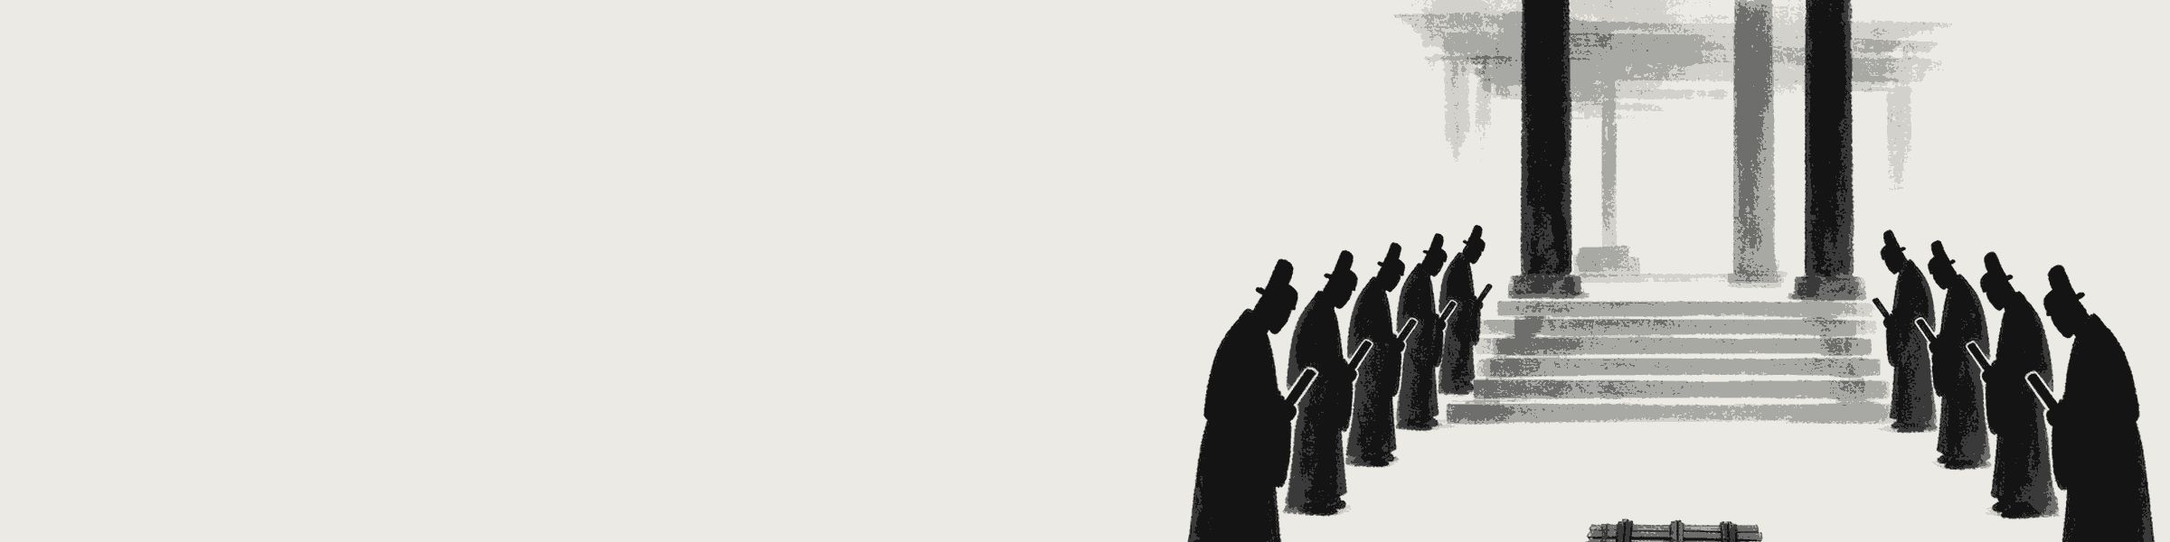
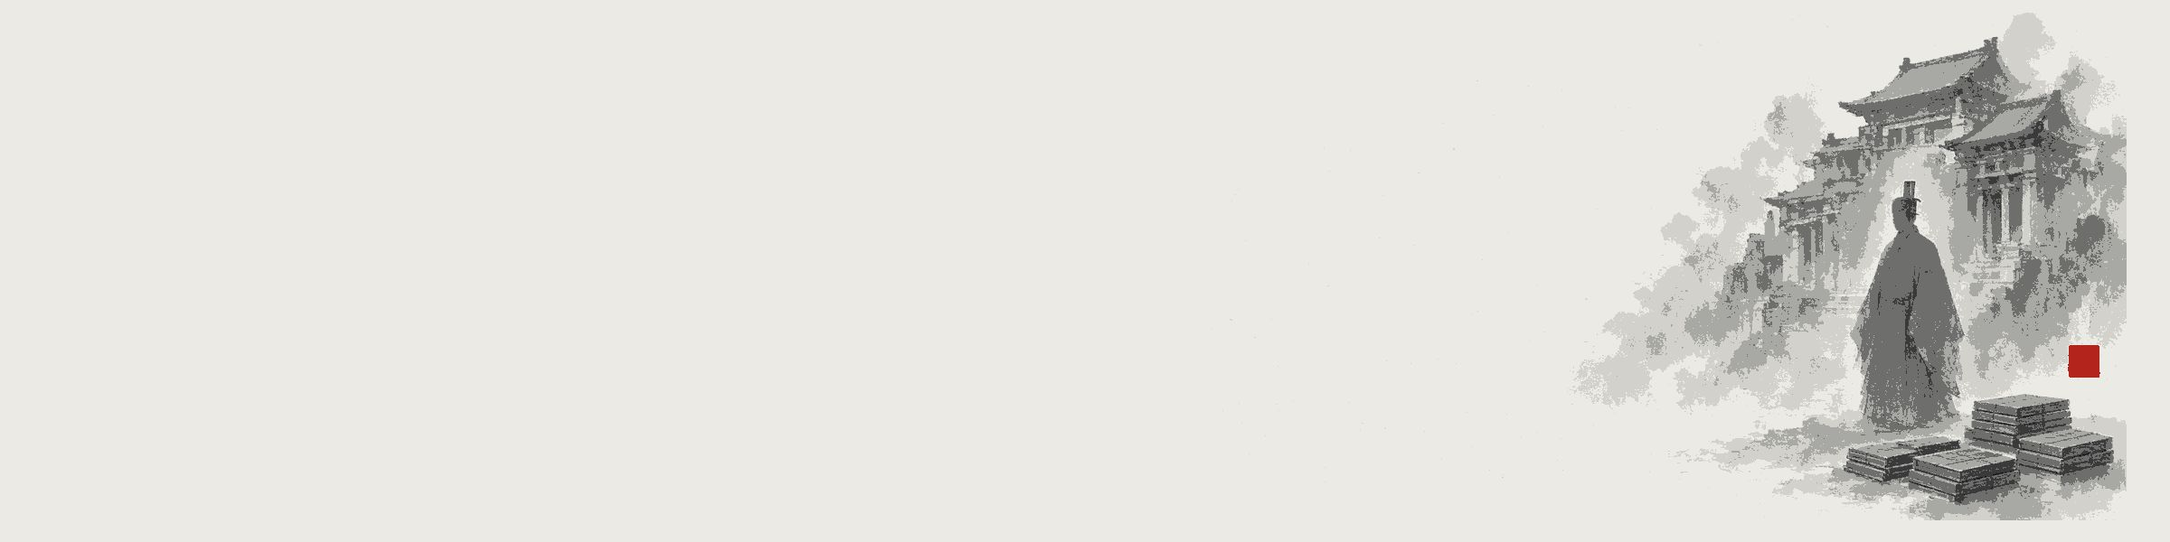
给内容站铺淡墨晕，并按简化色板重画主图和篇图。
公开访谈只作色彩归纳，不临摹画面。提示词模板写入 art-style.md 和 AGENTS.md。主图与横幅仍把焦墨放在右侧，标题留在左侧纸上。

Changed region(s): [[0.5312, 0.0, 1.0, 1.0], [0.7188, 0.96, 0.8125, 1.0]]

diff --git a/video/viewer/index.html b/video/viewer/index.html
@@ -44,11 +44,13 @@
 html{scroll-behavior:smooth;-webkit-text-size-adjust:100%}
 @media (prefers-reduced-motion:reduce){ html{scroll-behavior:auto} *,*::before,*::after{transition:none!important;animation:none!important} }
 html{background-color:var(--paper)}
-html::before{content:"";position:fixed;inset:0;z-index:0;pointer-events:none;opacity:.45;
+html::before{content:"";position:fixed;inset:0;z-index:0;pointer-events:none;opacity:.4;
   background:url("assets/paper-fiber.jpg") 0 0/512px 512px repeat;
   background-image:image-set(url("assets/paper-fiber.webp") type("image/webp"), url("assets/paper-fiber.jpg") type("image/jpeg"))}
+html::after{content:"";position:fixed;inset:0;z-index:0;pointer-events:none;
+  background:url("assets/ink-wash.webp") 0 0/512px 512px repeat}
 body{background:transparent;color:var(--ink);font-family:var(--serif);font-size:15px;line-height:1.75;min-height:100vh;position:relative}
-/* 纸纹只留一层极淡的纤维。整页墨渍与角落墨斑已停用（D1）。 */
+/* 底是宣纸纤维，上面再铺一层很疏的墨点与墨晕。透明度压低，不压正文。 */
 #bar,#hero,#pianHome,#pianBanner,#dynasties,#chapter,#scene,footer{position:relative;z-index:1}
 a{color:inherit}
 button,select{font:inherit;color:inherit}
@@ -415,7 +417,7 @@ footer .wrap{display:flex;flex-wrap:wrap;gap:8px 24px;justify-content:space-betw
       <source media="(max-width:980px)" srcset="assets/hero-fenghuo-m.webp" type="image/webp">
       <source media="(max-width:980px)" srcset="assets/hero-fenghuo-m.jpg" type="image/jpeg">
       <source srcset="assets/hero-fenghuo-wide.webp" type="image/webp">
-      <img src="assets/hero-fenghuo-wide.jpg" width="2400" height="1000" alt="水墨长城：烽火台燃起红色烽火，黑色狼烟升起，右侧悬崖上一名持矛武士的剪影" fetchpriority="high" decoding="async">
+      <img src="assets/hero-fenghuo-wide.jpg" width="2400" height="1000" alt="宣纸水墨：右侧悬崖上的烽火台有一点朱红火焰，持矛武士剪影，左侧大片留白" fetchpriority="high" decoding="async">
     </picture></div>
     <div class="hero-txt">
       <div class="kicker">中国历史 · 水墨内容站</div>

diff --git a/video/docs/art-style.md b/video/docs/art-style.md
@@ -15,7 +15,33 @@
 - **场景用细密的界画线条再铺幽暗色彩**（《影之刃3》场景美术自述）；《影之刃零》的地图则是画在宣纸上的水墨图。
 - **横版动作与动势**：前作为横版格斗，招式靠剪影姿态、刀光和拖影读出来。
 
-我们取其中最适合历史短片与横版引擎的部分：**黑、白、红的高反差，剪影人物，泼墨与血雾的打击感，侧视的武侠戏剧感**。系列里的金色高光、蒸汽朋克机械、细密界画线条与复杂材质，**一律不用**。
+我们取其中最适合历史短片与横版引擎的部分：**黑、白、红的高反差，剪影人物，泼墨与血雾的打击感，侧视的武侠戏剧感**。系列里的金色高光、蒸汽朋克机械、细密界画线条与复杂材质，**一律不用**。复杂实景改成墨晕，不画照片式的城、山、天。
+
+### 1.1 色彩归纳（2026-10-12，只据公开文字，不临摹画面）
+
+公开访谈和评测**没有给出官方色值或色板文件**。下面的占比和 Hex 是我们锁死的简化，不是从他们的宣传图吸色。吸色或临摹画面都不做。
+
+| 范围 | 资料里实际说了什么 | 水墨简化版 |
+|---|---|---|
+| 人物轮廓 | 美术总监 Michael CTY（《影之刃3》，游民星空 2020-12-25）：少画繁复细节，写意轮廓，用大黑大白的比例出厚度，以「力」和「型」做骨架。服装按功能分层，不按装饰堆。 | 人物主体约七成是焦墨 `#141414`。内部只用浓墨 `#3a3a3a` 分一两块，不超过人物面积一成五。纸白是底，不是皮肤高光。 |
+| 服饰、发丝 | 梁其伟（腾讯新闻 2023-06-26）：武侠要朴、要带一点尘土，破蓑衣、斗笠压住脸，不要高饱和的新绸缎。发丝和面容在原作里要质感；我们这里不画。 | 只留冠、髻、袖、甲的外轮廓。不画发丝，不画五官。袖摆可以有枯笔飞白。 |
+| 兵刃 | 同一访谈里的意象是雨中一把剑、寒光一闪。评测把刀光写成黑灰底上最跳的一笔。 | 刃口一笔纸白或淡灰，刀身仍是焦墨。不画金色刃，不画日本刀。 |
+| 红色点缀 | 梁其伟谈《影之刃零》（游戏陀螺）：从 2D 抽出的要素是低饱和、冷色大背景，对比红和金色高光。2014 年评测（360 游戏、益玩）：全场景黑与灰，技能和喷出的血最刺激。GameRant 引他的话：树上挂的红布是传统色，机械臂和炮是另一套。 | 只留朱砂 `#b3241c`。用在血、旗、落日、空白印。单帧不超过一成，一帧一处。金色高光不收。 |
+| 天空、远景 | 2014 评测：黑与灰，阴暗。游民星空 2021-01：场景用《千里江山图》《清明上河图》式的界画密线再铺幽暗色，繁复里有疏离。 | 不画界画，不画实景天空。最远是清墨 `#d2d1cc` 的晕，然后淡墨 `#a8a8a4` 的山，中景重墨 `#6e6e6c` 的建筑块。层与层之间留纸。 |
+| 雾、月、日 | 《影之刃零》的玩家向描述里出现过瘴气、浑浊天光、灰雾挡月、火把（当游网）。那些偏黄、偏紫的光不收。 | 雾是清墨晕开的毛边。月是纸白的圆，没有光晕。日只在地平线上一小块朱砂，不画橙黄圆日。 |
+| 刀光、血、动作线、冲击 | 2014 评测：线与墨构成画面，血在黑灰里跳出来。《影之刃零》试玩描述有拖尾、暗红碎粒、火星、血像泼到墙上、烟像淡墨（当游网）。屏幕闪白和金属火星不收。 | 刀光是沿挥砍方向的枯笔飞白，纸白或焦灰，不是霓虹。血是斜向的朱砂点，面积见上。动作线最多两笔侧锋。冲击是一圈淡墨，不要光斑、不要粒子。 |
+
+资料（均为文字，未把宣传图放进仓库）：
+
+- 游戏陀螺 / 陀螺科技对梁其伟的访谈：低饱和、冷色大背景、红与金色高光、KUNGFUPUNK。[youxituoluo.com/530799.html](http://www.youxituoluo.com/530799.html)
+- 腾讯新闻 2023-06-26 专访：武侠要朴、要带尘土，不要高饱和戏装。[news.qq.com/rain/a/20230626A09UJA00](https://news.qq.com/rain/a/20230626A09UJA00)
+- 游民星空 2020-12-25，Michael CTY：写意轮廓、大黑大白、力与型。[shouyou.gamersky.com/news/202012/1349494.shtml](https://shouyou.gamersky.com/news/202012/1349494.shtml)
+- 游民星空 2021-01：阴郁粗粝；环境用界画密线（这一条我们改成墨晕，不照做）。[shouyou.gamersky.com/news/202101/1357660.shtml](https://shouyou.gamersky.com/news/202101/1357660.shtml)
+- 360 游戏、益玩，2014 年《影之刃》评测：黑灰浓墨，技能和血最跳。
+- PlayStation Blog（2023-05-24）与 GameRant：暗、冷、荒；红布是传统色，机械与炮是功夫朋克，不进入本项目。
+- A9VG 对《影之刃零》的试玩：地图是水墨的，钢铁高塔是另一套，不进入本项目。
+
+明暗关系收成一句：纸最亮，人最黑，中间只留三四层灰；红比最黑的人更「跳」，但面积小。对比靠黑白块，不靠彩色渐变。笔触是侧锋、见棱角、飞白只跟动势走。
 
 ## 2. 我们的简化版
 
@@ -111,6 +137,72 @@
 - `videoPrompt.style`、`videoPrompt.negative`、人物描述末尾的剪影规则、高潮镜的墨效，全部来自 `art-style.mjs`。
 - `artPrompts[].prompt` 的“画风”一行与负面词同源；素材仍是透明底，以便引擎分层合成。
 - 开场分镜的“水墨效果”词表（火、营帐、军阵、殿柱等）已改为剪影说法。
+
+## 5. 可直接复用的提示词模板（2026-10-12）
+
+生成任何静帧，先写「共用正向」，再接本类的一句，最后接「共用负向」。不要改色板、留白比例和红色上限。不要写《影之刃》的角色名，不要把他们的图当参考图。
+
+**共用正向（中文）**
+
+高反差黑白红武侠水墨剪影，简化版，画在暖宣纸 `#eceae4` 上。复杂的城、山、天都改成墨晕，不画实景、不画照片。墨分五层：焦 `#141414`、浓 `#3a3a3a`、重 `#6e6e6c`、淡 `#a8a8a4`、清 `#d2d1cc`。人物是侧视大剪影，头身约 1:7，无五官。外轮廓粗笔侧锋、转折见棱角；飞白只沿动势。光是平的，没有体积光、没有光斑。地平线在下三分之一。
+
+**共用负向（中文）**
+
+不要文字、字母、印章里的字、水印。不要金色、蓝色、青色、绿色、黄色、橙色、紫色。不要写实照片、3D、动漫脸、五官、日本刀、现代建筑、电线、公路、车辆、玻璃、塑料、现代衣服、眼镜、手表、枪、电灯。不要蒸汽机械、界画密线、细密皴纹、霓虹刀光、粒子、镜头光斑。朱砂 `#b3241c` 不超过画面一成，一帧只用一处。
+
+**Shared positive (English)**
+
+High-contrast black-white-red wuxia ink silhouette, simplified, on warm xuan paper #eceae4. Replace any complex city, mountain or sky with ink wash; do not paint a real place or a photograph. Five ink weights only: scorched #141414, dense #3a3a3a, heavy #6e6e6c, pale #a8a8a4, clear #d2d1cc. Side-view silhouette, about seven heads tall, no facial features. Bold angular side-brush contour; dry-brush flying white only along motion. Flat light, no god rays, no lens flare. Horizon in the lower third.
+
+**Shared negative (English)**
+
+No text, letters, characters inside seals, or watermark. No gold, blue, cyan, green, yellow, orange, or purple. No photograph, 3D, anime face, facial features, katana, modern buildings, power lines, roads, vehicles, glass, plastic, modern clothing, eyeglasses, watches, guns, or electric lights. No steampunk machinery, dense ruled lines, dense texture strokes, neon blade light, particles, or lens flare. Vermilion #b3241c stays under 10% of the frame and in one place only.
+
+### 5.1 人物
+
+每类都是共用正向 + 下面这一句 + 共用负向。人物四周留白不少于画面三成。焦墨占人物约七成，浓墨分块不超过人物一成五。
+
+| 类 | 正向要补的一句 | 红用在哪 | English clause |
+|---|---|---|---|
+| 武将 | 一名无五官的武将剪影，肩宽，简单盔或高冠，甲只留大块轮廓，长兵器竖持或斜持，不与任何人相接。侧视，人高占画面五成，脚下是重墨地面一笔。 | 旗或盔缨一小块，不超过 6% | One faceless general, broad shoulders, simple helmet or tall crown, armour as large plates only, a long weapon held clear of any other body. Side view, figure about half the frame height, one heavy-ink ground stroke. |
+| 刺客 | 一名偏瘦的无五官剪影，斗笠或包头压住头部，窄袖，一把直剑收在身侧，姿态前倾。人高占画面四到五成，周围清墨雾。 | 不用红；若必须，只在刃口下一滴，不超过 3% | One lean faceless assassin, wide hat or wrapped head, narrow sleeves, a straight sword held at the side, weight forward. Figure 40–50% of frame height, clear-ink mist around. |
+| 文士 | 一名瘦高的无五官文士，宽袖，双手藏在袖里，不持兵器，不披甲，布冠或方巾。人高占画面五成，左侧留出至少四成纸白。 | 不用红 | One tall lean faceless scholar, wide sleeves, hands hidden, no weapon, no armour, cloth cap. Figure about half the frame height, at least 40% empty paper on the left. |
+| 女性 | 一名无五官的女性剪影，身形清瘦，长裙或深衣的外轮廓，发髻只是头上的一块形，不持兵器。姿态稳，不画腰肢细节。 | 裙裾或一枝小印，不超过 4%，印面无字 | One faceless woman, slim, the outer shape of a long robe, hair only as a knot mass, no weapon. Calm pose, no body detail. |
+| 帝王 | 一名无五官的君王剪影，简单高冠或冕旒，宽袖端坐或侧立，不持兵器，不戴西式尖冠。身后是两根重墨柱的平涂块，不是宫殿照片。 | 冠前或座侧一块空白朱印，无字，不超过 6% | One faceless ruler, simple tall crown or a crown with bead tassels, wide sleeves, seated or standing, no weapon, no western spiked crown. Two flat heavy-ink columns behind, not a photographed palace. |
+
+### 5.2 场景
+
+没有特写人物。留白不少于四成。远、中、近三层必须都能分开。
+
+| 类 | 正向要补的一句 | 红用在哪 | English clause |
+|---|---|---|---|
+| 山水 | 三四层平涂的山，最近重墨，最远清墨晕开，中间一条淡墨的水。不画树叶、不画皴纹。地平线在下三分之一，上半几乎是纸。 | 不用红，或地平线上一小点，不超过 2% | Three or four flat mountain layers, heavy ink near, clear ink far, one pale stroke of water. No leaves, no texture strokes. Horizon in the lower third, the upper half almost bare paper. |
+| 城池 | 城是几块重墨的墙和一门洞，屋顶是一条斜线，不要砖缝和窗格。城前留纸。 | 一面素旗，不超过 5%，旗上无徽记无字 | A city as a few heavy-ink wall blocks and one gate opening, roofs as single slanted strokes, no bricks, no window lattice. Empty paper in front. |
+| 宫殿 | 柱、阶、屋檐都是平涂的重墨块，地面一条纸白。不要藻井和金饰。 | 空白朱印或帘边一条，不超过 6%，无字 | Columns, steps and eaves as flat heavy-ink blocks, one paper-white floor stroke. No ceiling pattern, no gold ornament. |
+| 战场 | 成排的无五官剪影由焦到淡退远，矛竖着，不相接。地面一条重墨。烟是横向的清墨。 | 一面朱旗或落日一小块，不超过 8% | Ranks of faceless silhouettes receding from scorched to pale ink, spears upright, not touching. One heavy ground stroke. Smoke as a horizontal clear-ink band. |
+| 夜景 | 纸仍然是 `#eceae4`，夜不涂成蓝黑。月亮是纸白的圆，没有光晕。建筑只剩更黑的一块剪影。 | 一盏青铜灯的火，或月旁不用红；火不超过 3% | The paper stays #eceae4; night is not painted blue-black. The moon is a paper-white disc with no glow. Buildings are one darker silhouette. |
+
+### 5.3 战斗
+
+不画兵器相接的瞬间，只画之前或之后。人仍无五官。飞白方向必须和动作一致。
+
+| 类 | 正向要补的一句 | 红用在哪 | English clause |
+|---|---|---|---|
+| 单挑 | 两人剪影拉开距离，一人前倾、一人稳立，刀或剑已离开对方身体。中间是纸，上面一条飞白。 | 地上数点朱砂，不超过 8%，不画血河 | Two silhouettes apart, one leaning in, one planted, blades clear of the other body. Paper between them and one flying-white stroke. |
+| 军阵 | 只见阵，不见格斗。前排焦墨，后排淡成雾。旗在阵侧。 | 一阵旗，不超过 8% | The formation only, no melee. Front rank scorched ink, rear rank fading into mist. Banners at the side. |
+| 攻城 | 城墙是重墨块，城下人很小，云梯是两条线。不画人翻过垛口。 | 城头一小块朱砂如火或旗，不超过 6% | The wall is a heavy-ink block, people small beneath it, a ladder as two lines. Nobody climbing over the parapet. |
+| 刺杀 | 一人已倒或将倒的剪影，另一人站在三步之外，剑尖不接触身体。地上墨滩。 | 斜向的朱砂血雾，不超过 8%，然后像要定格 | One figure already falling, the other three steps away, the sword tip not touching the body. A pool of ink on the ground. |
+
+### 5.4 页面图（主图、横幅、卡片）
+
+站点图还要遵守留白，否则标题会压住主体。左侧纸上可以有极淡的清墨，不能有焦墨。
+
+| 类 | 正向要补的一句 | 红用在哪 | English clause |
+|---|---|---|---|
+| 主图（宽 2.4:1） | 左侧至少一半是几乎空白的宣纸，焦墨全部放在右侧四成以内：悬崖、烽火台、一名持矛的无五官武士。 | 烽火一点，不超过 6% | At least the left half is nearly empty paper. All scorched ink stays inside the right 40%: a cliff, a beacon, one faceless spear warrior. |
+| 主图（方） | 同样的烽火与武士，焦墨从横向约四成之后才出现，人不要被切出画外。 | 烽火一点，不超过 6% | The same beacon and warrior. Scorched ink begins only after about 40% of the width. Do not crop the figure. |
+| 横幅（4:1） | 左侧至少一半空白。右侧按篇放一件事：战场是阵与旗，治国是柱、竹简和无五官文臣，人物是一名无兵器剪影，地理是河、三层山和一条路。 | 战场用旗或小日不超过 8%；治国用无字朱印不超过 6%；人物不超过 3%；地理一个点不超过 3% | At least the left half is empty. The right holds one subject only: ranks and banners, or columns plus slips plus a faceless minister, or one unarmed silhouette, or a river, three mountain layers and a route. |
+| 卡片（4:5） | 竖幅。主体完整，头顶和脚下都留纸。战场、治国、人物、地理各只讲上面横幅里的那一件事。 | 与对应横幅相同 | Vertical. The subject is complete, with paper above the head and below the feet. One subject only, matching that banner. |
 
 ---
 

diff --git a/AGENTS.md b/AGENTS.md
@@ -86,6 +86,45 @@ node video/tools/validate.mjs   # 历史内容校验器，必须 0 个错误
 - 效果：只有命中或高潮才泼墨与朱红血雾，之后定格。
 - 负面词：其他颜色、金色、精细纹理、CG 渐变、写实照片、3D、动漫脸、画面文字、**日本刀（武士刀）**、**细密皴纹**（后两项已写进 `NEG_STYLE_*`）。
 
+### 5.1 强制：水墨简化版提示词
+
+生成静帧、主图、横幅、卡片图、`videoPrompt` 与素材提示词时，必须套 [art-style.md §5](./video/docs/art-style.md) 的模板：共用正向 + 本类一句 + 共用负向。不要改色板、留白比例和红色上限。不要写角色名，不要把参照作品的图放进仓库或当作参考图。复杂城、山、天改成墨晕，不画实景。
+
+墨分五层：焦 `#141414`、浓 `#3a3a3a`、重 `#6e6e6c`、淡 `#a8a8a4`、清 `#d2d1cc`，纸 `#eceae4`。朱砂 `#b3241c` 单帧不超过一成、一帧一处，只给血、旗、日、空白印。人物无五官，头身约 1:7。侧锋见棱角，飞白只跟动势。光是平的。
+
+**共用正向：** 高反差黑白红武侠水墨剪影，简化版，暖宣纸底。复杂景物改成墨晕。人物侧视大剪影，无五官。地平线在下三分之一。
+
+**共用负向：** 不要文字、印章里的字、金色、蓝青黄绿橙紫、写实、3D、动漫脸、五官、日本刀、现代建筑与器物、蒸汽机械、界画密线、细密皴纹、霓虹刀光、粒子和光斑。
+
+**Shared positive:** High-contrast black-white-red wuxia ink silhouette, simplified, on warm xuan paper #eceae4. Replace complex scenery with ink wash. Side-view faceless silhouette. Horizon in the lower third.
+
+**Shared negative:** No text, letters in seals, gold, blue, cyan, green, yellow, orange, purple, photograph, 3D, anime face, facial features, katana, modern objects, steampunk, dense ruled lines, dense texture strokes, neon blade light, particles, or lens flare. Vermilion under 10%, one place.
+
+本类只追加一句（红的位置和上限写在句中）：
+
+| 类 | 追加这一句 |
+|---|---|
+| 武将 | 肩宽，简单盔，甲只留大块，长兵器不与人相接。人高约五成。红只在旗或盔缨，不超过 6%。 |
+| 刺客 | 偏瘦，斗笠压头，直剑收在身侧。人高四到五成，周围清墨。红不超过 3%，可以不用。 |
+| 文士 | 瘦高宽袖，手藏袖中，不持兵器。左侧至少四成纸白。不用红。 |
+| 女性 | 清瘦长裙，发髻只是一块形，不持兵器。红在裙裾或无字小印，不超过 4%。 |
+| 帝王 | 简单高冠或冕旒，不持兵器，不戴西式尖冠。身后两根平涂柱。无字朱印不超过 6%。 |
+| 山水 | 三四层平涂山，一条淡墨水，不画皴纹。上半几乎是纸。红不超过 2% 或不用。 |
+| 城池 | 几块墙、一个门洞、屋顶一条斜线，无砖缝。素旗不超过 5%，旗上无字无徽记。 |
+| 宫殿 | 柱、阶、檐是平涂块。无字朱印或帘边不超过 6%。 |
+| 战场 | 成排剪影由焦到淡，矛竖着不相接。朱旗或落日不超过 8%。 |
+| 夜景 | 纸仍是 `#eceae4`，不涂蓝黑。月是纸白圆，无光晕。灯火不超过 3%。 |
+| 单挑 | 两人拉开，兵器离开对方身体，中间是纸和一条飞白。地上朱砂点不超过 8%。 |
+| 军阵 | 只见阵，不见格斗。前排焦、后排淡。旗不超过 8%。 |
+| 攻城 | 城是重墨块，人很小，云梯两条线，无人翻过垛口。城头红不超过 6%。 |
+| 刺杀 | 一人将倒，另一人在三步外，剑尖不接触身体。斜向血雾不超过 8%。 |
+| 主图宽 | 左半几乎空白。焦墨只在右侧四成：悬崖、烽火、持矛无五官武士。烽火红不超过 6%。 |
+| 主图方 | 同一题材。焦墨从横向约四成之后才出现，人不要被切出画外。 |
+| 横幅 | 左半空白。右侧只一件事：阵与旗，或柱、竹简与文臣，或一名无兵器的人，或河、三层山和一条路。红的上限依次不超过 8%、6%、3%、3%。 |
+| 卡片 | 竖幅，头顶脚下都留纸。题材与同篇横幅相同，红的上限也相同。 |
+
+English clause for the same row, in order: faceless general with weapon clear of any body; lean assassin, sword at the side; scholar, no weapon, empty paper on the left; woman, no weapon; ruler with a simple crown and two flat columns; flat mountain layers and one water stroke; wall blocks and one gate; flat palace blocks; ranks with upright spears; night kept on paper white, moon with no glow; two fighters apart; formation only; wall, small people, ladder of two lines; assassination with the sword not touching; wide hero with the left half empty; square hero, ink after 40% of the width; banner with the left half empty and one subject; vertical card, subject complete.
+
 ## 6. AI 视频怎么做（2026-10-10 实测）
 
 - 流程：每个镜头先出一张本风格静帧作**首帧**，再**图生视频**。
@@ -149,7 +188,7 @@ node video/tools/validate.mjs   # 历史内容校验器，必须 0 个错误
 4. `node video/tools/validate.mjs` 0 个错误，`./build.sh check` 全绿，才能提交或推送。
 5. 视觉改动只交截图，必要时附改前改后对比。不要录屏。未在真实 GPU 上看过的结论写“未实测”。真实 GPU 验收在用户的 Mac 上。内容站版式以无头截图为准，字形在 Mac 上会不同（box 上没有楷体）。
 6. 新 PR 一律以 `main` 为合并目标，不要把一个 PR 的分支再当成下一个 PR 的基线。小批量提交；提交作者用 `linkxzhou`。
-7. 页面与图片遵循 §5 的简化版《影之刃》黑白红：宣纸 `#eceae4`、浓墨 `#141414`、灰阶、朱砂 `#b3241c` 不超过一成。内容站不用圆角卡片、投影、渐变和玻璃模糊；标题用楷体感字体、墨线分隔和朱印。
+7. 页面与图片遵循 §5 的简化版《影之刃》黑白红：宣纸 `#eceae4`、浓墨 `#141414`、灰阶、朱砂 `#b3241c` 不超过一成。提示词必须套 §5.1 的共用正负向和本类一句。内容站不用圆角卡片、投影、玻璃模糊；标题用楷体感字体、墨线分隔和朱印。页面底可以有很淡的纸纹和墨晕。
 8. 章节视频按 §7：旁白 rate −29%（约慢 1.3 倍）、禁止现代元素和时代错置、镜头之间默认流墨转场。分镜静帧、镜头、转场和音频分轨留在本地 `/workspace/chapter-video/`，不提交；仓库只收成片 mp4、海报和剧本。
 9. 多步任务按 plan-with-files 把进度记在 `plan/progress/<日期>-<任务>/` 的 `task_plan.md`、`findings.md`、`progress.md`。
 10. 地图的海岸和大河用 Natural Earth（公有领域）。CHGIS / TGAZ 只用于人工在线核对，不下载、不抄坐标、不提交。

diff --git a/plan/progress/2026-10-12-viewer-ink-style/progress.md b/plan/progress/2026-10-12-viewer-ink-style/progress.md
@@ -66,6 +66,13 @@
 | 2026-10-12 | update_pr 找不到开放的 PR #16 | 1 | PR 已合并。新建指向 main 的 PR |
 | 2026-10-12 | 进度文件不符合 plan-with-files 三文件约定 | 1 | 改为本目录的 task_plan / findings / progress |
 
+### 2026-10-12 续：墨晕底、色彩模板、重画主图
+
+- **Status:** complete
+- 页面加了 `ink-wash.svg` 淡墨点与墨晕。
+- `video/docs/art-style.md` §1.1 与 §5 写入色彩归纳和中英模板。`AGENTS.md` §5.1 列为强制。
+- 主图、四条横幅、四张篇卡按模板重画并锁色板。深色焦墨都在标题区右侧。
+
 ## 5-Question Reboot Check
 
 | Question | Answer |
